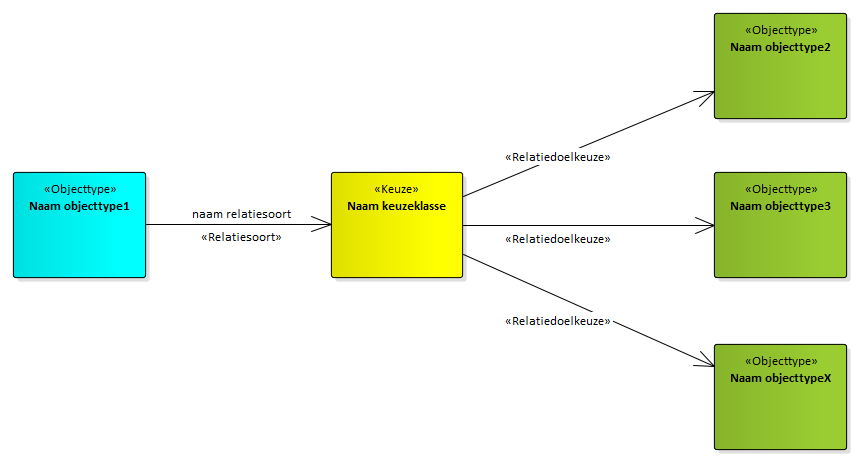
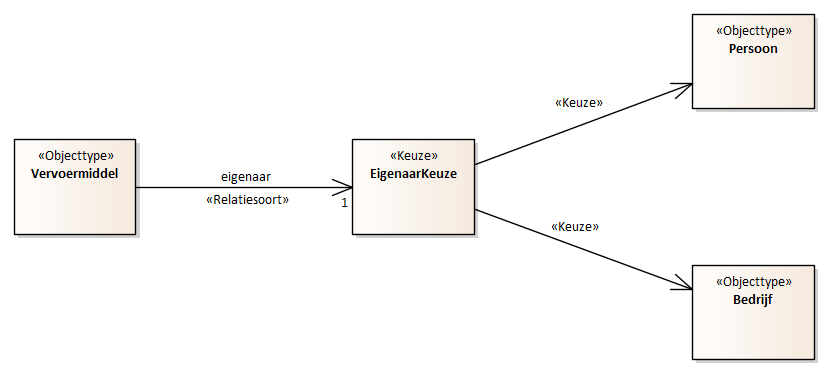
diagram bij relatiedoelkeuze

Changed region(s): [[0.0, 0.0292, 0.9988, 0.992]]

diff --git a/MetamodelAlgemeen.md b/MetamodelAlgemeen.md
@@ -799,12 +799,16 @@ In dit voorbeeld vormt BetalingskenmerkOfOmschrijving de *Keuze* als geheel. De 
 Er is sprake van een relatiesoort R0 en aanvullend hierbij een keuze tussen relatiedoel D1 of relatiedoel D2. In MIM modelleren we daarom een keuze tussen de 2 relatiedoelen D1 en D2. Het maken van deze keuze is verplicht.
 
 <aside class='example'>
-Voorbeeld: een objecttype "Vervoersmiddel" heeft een eigenaar. Dit kan een persoon zijn, of een bedrijf, maar niet beiden. Er is sprake van één eigenaar" en een keuze tussen relatiedoel persoon (naar objecttype Persoon) en relatiedoel bedrijf (naar objecttype Bedrijf). We modelleren daarom 1 *Relatiesoort* eigenaar en aanvullend met een *Keuze* PersoonOfBedrijf met twee relatiedoelen, een naar persoon en een naar bedrijf.  
+Voorbeeld: een objecttype "Vervoermiddel" heeft een eigenaar. Dit kan een persoon zijn, of een bedrijf, maar niet beiden. Er is sprake van één eigenaar" en een keuze tussen relatiedoel persoon (naar objecttype Persoon) en relatiedoel bedrijf (naar objecttype Bedrijf). We modelleren daarom 1 *Relatiesoort* eigenaar en aanvullend met een *Keuze* EigenaarKeuze met twee relatiedoelen, een naar persoon en een naar bedrijf.  
 </aside>
  
-Het is bij deze use case niet de bedoeling om twee nieuwe relatiesoorten, eigenaar_persoon en eigenaar_bedrijf, te introduceren en al zeker niet om de relatiesoort eigenaar kwijt te raken. We modelleren daarom 1 relatiesoort met de naam eigenaar en een *Keuze* tussen relatiedoelen. 
+Het is bij deze use case niet de bedoeling om twee nieuwe relatiesoorten, eigenaar_persoon en eigenaar_bedrijf, te introduceren en al zeker niet om de relatiesoort eigenaar kwijt te raken. We modelleren daarom 1 relatiesoort met de naam eigenaar en een *Keuze* tussen relatiedoelen.
 
-In het voorbeeld vormen PersoonOfBedrijf en de twee relatiedoelen tezamen de keuze als geheel. De relatiedoelen zelf zijn de keuze mogelijkheden. De modellering van de relatiesoort eigenaar blijft hetzelfde en behoort niet tot de modellering van de metaclass keuze.   
+![](media/relatiedoelkeuze.png)
+
+Diagram: Voorbeeld van keuze tussen relatiedoelen uitgwerkt in een UML diagram.
+
+In het voorbeeld vormen EigenaarKeuze en de twee relatiedoelen tezamen de keuze als geheel. De relatiedoelen zelf zijn de keuze mogelijkheden. De modellering van de relatiesoort eigenaar blijft hetzelfde en behoort niet tot de modellering van de metaclass keuze.   
 
 ## Specificatie metagegevens 
 
